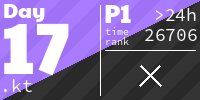
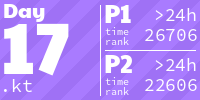
Year 2024 / Day 17 / Part 2

diff --git a/AoC/src/Year2024/Day17.kt b/AoC/src/Year2024/Day17.kt
@@ -14,28 +14,36 @@ private object Day17 : Day {
         private var pointer = 0
         private val output = mutableListOf<Int>()
 
-        fun reset(a: Long) {
-            this.a = a
+        fun run(): List<Int> {
+            while (pointer < program.size) {
+                runOp()
+            }
+            return output
+        }
+
+        fun runSingleLoop(registerA: Long): Int {
+            a = registerA
             pointer = 0
             output.clear()
+            while (output.isEmpty()) {
+                runOp()
+            }
+            return output.single()
         }
 
         @Suppress("ReplaceWithOperatorAssignment")
-        fun run(): List<Int> {
-            while (pointer < program.size) {
-                val (opcode, operand) = program[pointer++]
-                when (opcode) {
-                    0 -> a = a / 1.shl(combo(operand).toInt())
-                    1 -> b = b xor operand.toLong()
-                    2 -> b = combo(operand) % 8
-                    3 -> if (a != 0L) pointer = operand
-                    4 -> b = b xor c
-                    5 -> output.add((combo(operand) % 8).toInt())
-                    6 -> b = a / 1.shl(combo(operand).toInt())
-                    7 -> c = a / 1.shl(combo(operand).toInt())
-                }
+        private fun runOp() {
+            val (opcode, operand) = program[pointer++]
+            when (opcode) {
+                0 -> a = a / 1.shl(combo(operand).toInt())
+                1 -> b = b xor operand.toLong()
+                2 -> b = combo(operand) % 8
+                3 -> if (a != 0L) pointer = operand
+                4 -> b = b xor c
+                5 -> output.add((combo(operand) % 8).toInt())
+                6 -> b = a / 1.shl(combo(operand).toInt())
+                7 -> c = a / 1.shl(combo(operand).toInt())
             }
-            return output
         }
 
         private fun combo(operand: Int): Long {
@@ -81,18 +89,18 @@ private object Day17 : Day {
                 .map { (opcode, operand) -> Command(opcode, operand) },
         )
 
-        val aRange = LongRange(1L shl 45, 1L shl 48)
-        var a = aRange.first
-        while (a < aRange.last) {
-            device.reset(a)
-            val result = device.run()
-            if (result == program) {
-                return a
-            } else {
-                a++
-            }
+        val range = (0L..7L)
+        var possibleA = range.toList()
+        for (i in program.reversed().dropLast(1)) {
+            possibleA = possibleA
+                .filter { device.runSingleLoop(it) == i }
+                .flatMap { range.map { j -> (it shl 3) + j } }
+                .distinct()
         }
-        error("It is not possible for the given program")
+
+        return possibleA
+            .filter { device.runSingleLoop(it) == program.first() }
+            .min()
     }
 }
 
@@ -109,5 +117,15 @@ fun main() = with(Day17) {
     )
     result1()
 
+    test2(
+        input = """
+            Register A: 2024
+            Register B: 0
+            Register C: 0
+
+            Program: 0,3,5,4,3,0
+        """.trimIndent(),
+        expected = 117440L,
+    )
     result2()
 }

diff --git a/README.md b/README.md
@@ -2,7 +2,7 @@
 
 <!-- AOC TILES BEGIN -->
 <h1 align="center">
-  2024 - 35 ⭐
+  2024 - 36 ⭐
 </h1>
 <a href="AoC/src/Year2024/Day01.kt">
   <img src="Media/2024/01.png" width="161px">
